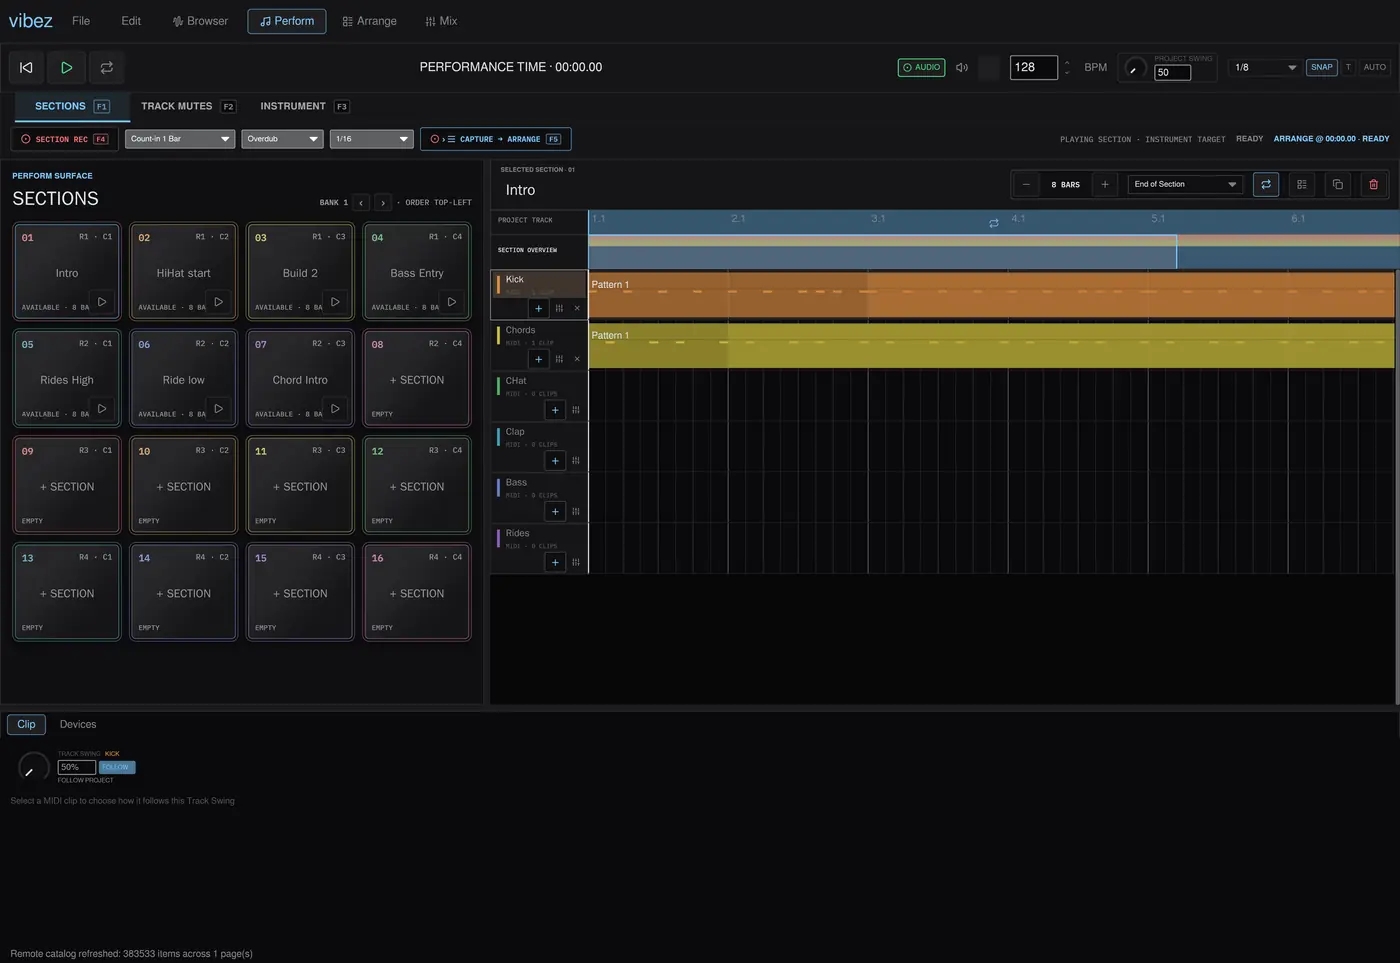
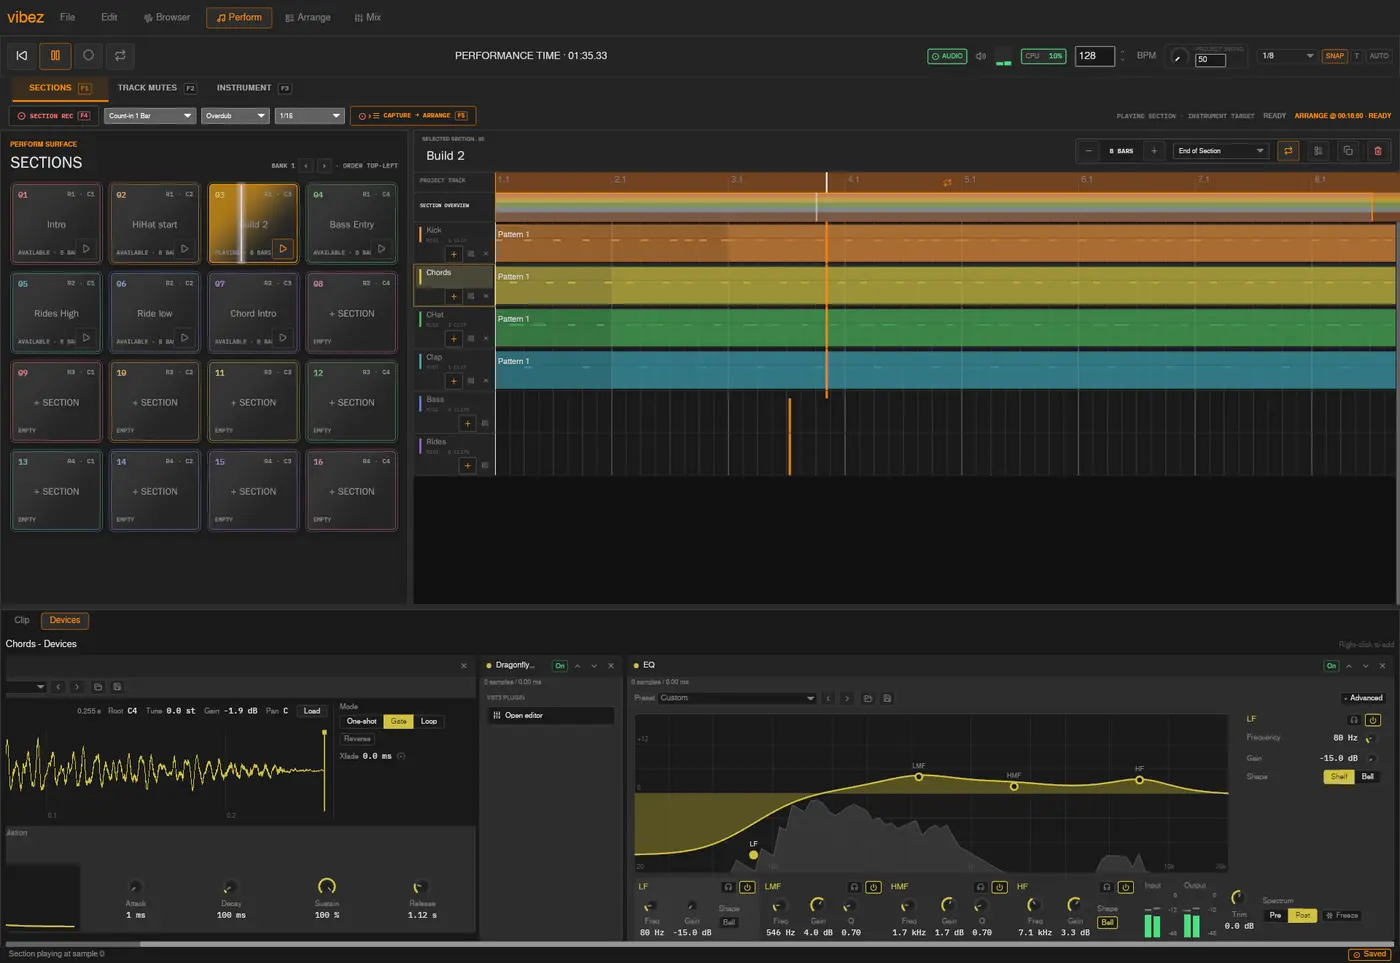
docs: new Arrange and Sections pictures with the channel EQ open

diff --git a/site/index.html b/site/index.html
@@ -502,8 +502,8 @@ footer .for-mum { flex-basis: 100%; }
         <li><b>Record <kbd>F4</kbd></b><span>Record a take with a count-in, into the selected Section or the selected clip cell.</span></li>
       </ul>
       <figure class="shot">
-        <img src="images/band-perform.webp" alt="The Perform workspace: a 16 pad grid of named Sections beside the Section editor" width="1100">
-        <figcaption>Perform &middot; Sections mode &middot; Bank 1 &middot; the Section editor on the right</figcaption>
+        <img src="images/band-perform.webp" alt="The Perform workspace: a 16 pad grid of named Sections, one playing, beside the Section editor, with a channel EQ below" width="1100">
+        <figcaption>Perform &middot; Sections mode &middot; Build 2 playing &middot; the Chords EQ in the rack below</figcaption>
       </figure>
       <figure class="shot">
         <img src="images/band-clips.webp" alt="The clip launcher: a column of clips per track, several playing, with a warped audio clip open in the editor" width="1100" loading="lazy">
@@ -539,8 +539,8 @@ footer .for-mum { flex-basis: 100%; }
         <li><b>Autosave</b><span>Projects are saved to a versioned, self-contained file, with autosave working in the background.</span></li>
       </ul>
       <figure class="shot">
-        <img src="images/band-arrange.webp" alt="A captured performance written into the Arrangement, with Track Mute automation lanes" width="1100">
-        <figcaption>Arrange &middot; a captured take &middot; Track Mute automation written alongside the clips</figcaption>
+        <img src="images/band-arrange.webp" alt="A captured performance written into the Arrangement, with a channel EQ and its live spectrum below" width="1100">
+        <figcaption>Arrange &middot; a captured take &middot; the Chords EQ with its live spectrum</figcaption>
       </figure>
     </div>
   </section>

diff --git a/README.md b/README.md
@@ -46,7 +46,7 @@ you can edit afterwards. Captured material keeps no reference back to its
 Sections, so editing a Section later never rewrites a take you already
 recorded.
 
-![A captured performance written into the Arrangement](docs/arrange-capture.png)
+![A captured performance written into the Arrangement, with a channel EQ below](docs/arrange-capture.png)
 
 Everything Capture writes is material you could have drawn by hand, so the rest
 of Arrange applies to it unchanged:
